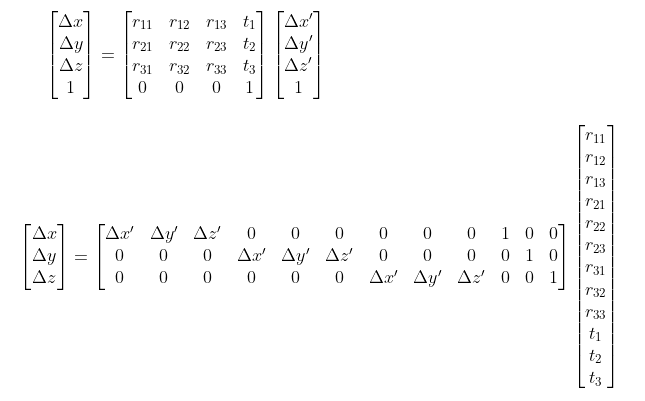
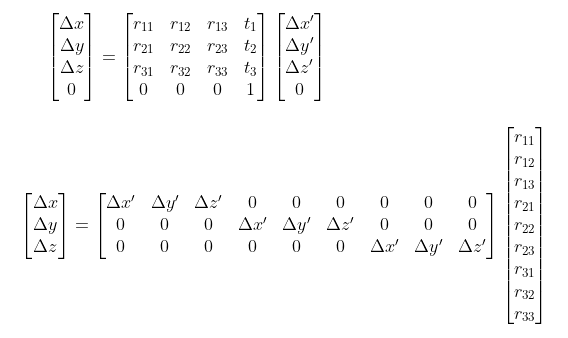
added a figure of translation calib linear system

diff --git a/src/ransac_calib.py b/src/ransac_calib.py
@@ -67,22 +67,43 @@ class Calibrator(object):
         return (x1 + x2 + x3)
     
     def estimateTransform(self):
-        # get delta data
-        delta_gps = []
-        delta_vio = []
+        # get ransac data
+        Y = []
+        X = []
         N = len(self.samples)
         for i in range(N-1):
             pos = self.samples[i]
             pos_ = self.samples[i+1]
             delta = pos_ - pos 
-            delta_gps.append(delta[:, 0])
-            delta_vio.append(delta[:, 1])
-            
+            delta_gps = delta[:, 0]
+            delta_vio = delta[:, 1]
+            x1 = np.array((delta_vio[0], delta_vio[1], delta_vio[2], 0, 0, 0, 0, 0, 0, 1, 0, 0))
+            y1 = delta_gps[0]
+            x2 = np.array((0, 0, 0, delta_vio[0], delta_vio[1], delta_vio[2], 0, 0, 0, 0, 1, 0))
+            y2 = delta_gps[1]
+            x3 = np.array((0, 0, 0, 0, 0, 0, delta_vio[0], delta_vio[1], delta_vio[2], 0, 0, 1))
+            y3 = delta_gps[2]
+            X.append(x1)
+            X.append(x2)
+            X.append(x3)
+            Y.append(y1)
+            Y.append(y2)
+            Y.append(y3)
+        X = np.asarray(X)
+        Y = np.asarray(Y)
+        print("data size: ", X.shape[0])
         # ransac
         # https://scikit-learn.org/stable/modules/generated/sklearn.linear_model.RANSACRegressor.html
-        print(delta_gps)
-        print(delta_vio)
-    
+        self.ransacRotation(X, Y)
+
+    def ransacRotation(self, X, Y):
+        X = X[:, :-3]
+        print(X.shape)
+        reg = RANSACRegressor(random_state=0).fit(X, Y)
+        params = reg.estimator_.coef_
+        inlier_mask = reg.inlier_mask_
+        print(params.reshape((3,3)))
+        
     def getPositionFromOdom(self, odom):
         x = odom.pose.pose.position.x
         y = odom.pose.pose.position.y
@@ -102,11 +123,13 @@ class Calibrator(object):
         
 class Transformer(object):
     def __init__(self):
-        trans_vec = (0, 0, 1)
+        trans_vec = (0.1, 0.1, 1)
         trans = tf.transformations.translation_matrix(trans_vec)
         quaternion = (0.3826834, 0, 0, 0.9238795)
         rot = tf.transformations.quaternion_matrix(quaternion)
         self.T = np.matmul(trans, rot)
+        print("Ground truth T_vio2robot: ")
+        print(np.linalg.inv(self.T))
         
         self.sub_vio = rospy.Subscriber('/mavros/odometry/in', Odometry, self.vioCallback, queue_size=1)
         self.pub_vio = rospy.Publisher('/vio/odom', Odometry, queue_size=1)
